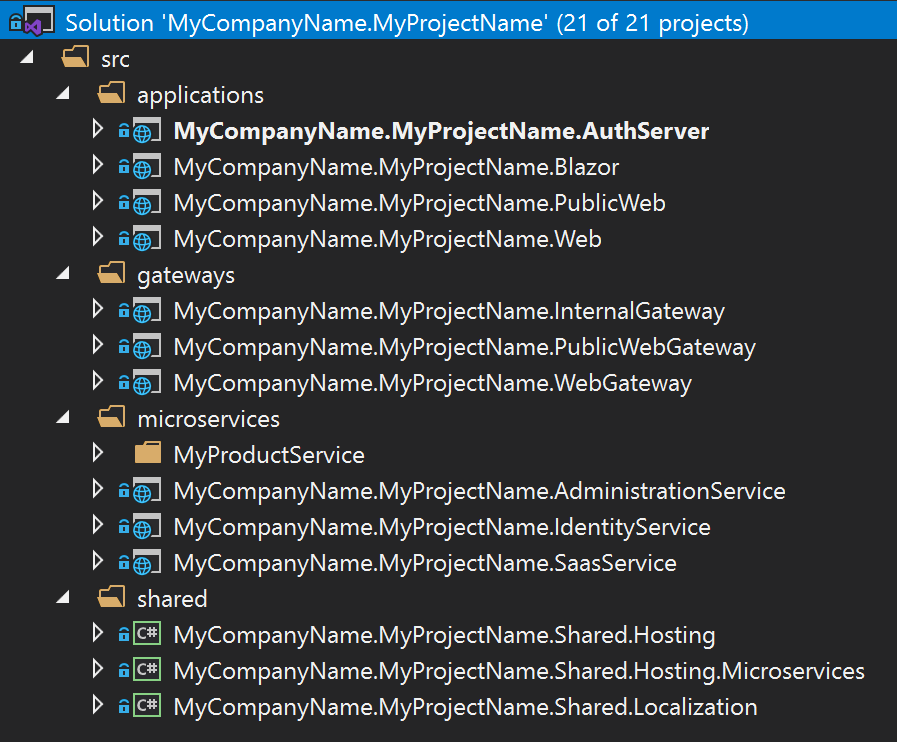
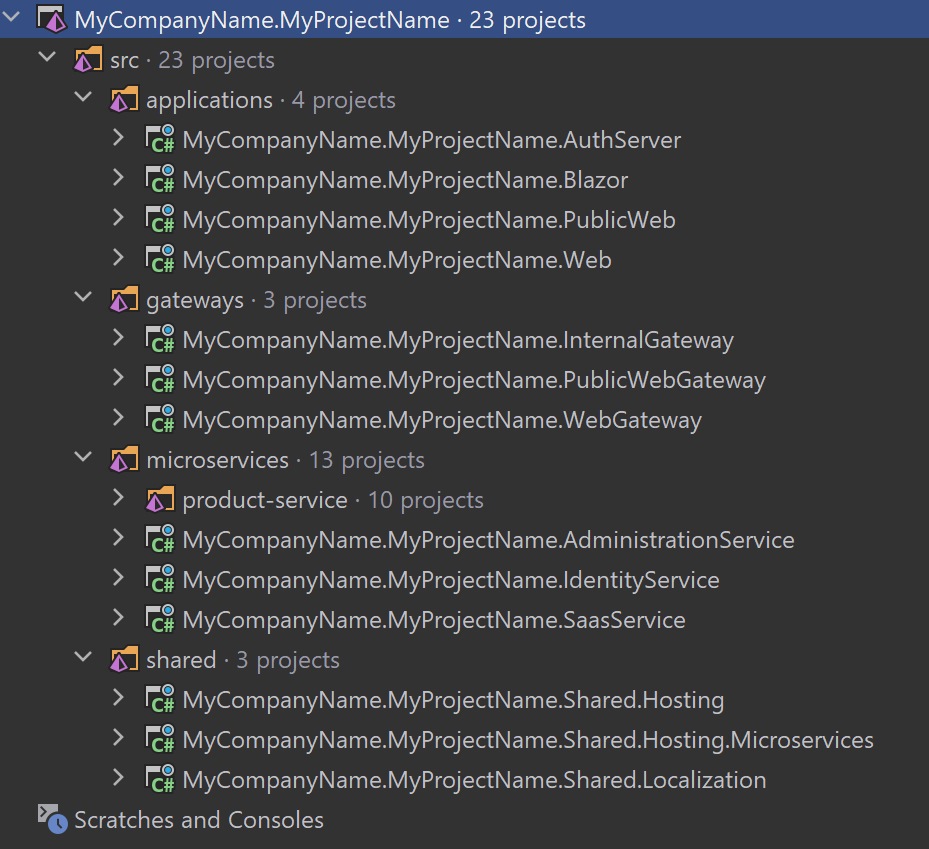
Update microservice\index

Changed region(s): [[0.0, 0.0, 1.0, 0.9919]]

diff --git a/en/startup-templates/microservice/index.md b/en/startup-templates/microservice/index.md
@@ -55,8 +55,6 @@ Other dependencies (like Redis and RabbitMQ) comes with a docker-compose configu
 
 Use the [ABP Suite](../../abp-suite/index.md) to [create a new solution](../../abp-suite/create-solution.md) by selecting the *Microservice* as the project type.
 
-TODO: Screenshot
-
 ### Run the Infrastructure
 
 The root folder of the solution contains a `run-infrastructure.ps1` file. Execute it to run the necessary infrastructure services. First run will take time since it will download the missing Docker images.
@@ -71,19 +69,48 @@ Now, you can open the solution in Visual Studio or your favorite IDE. You will s
 
 ![microservice-template-solution-in-visual-studio](../../images/microservice-template-solution-in-visual-studio.png)
 
+*Figure: The solution structure (it will be a slightly different based on your UI preference).*
+
 ## Run the Solution
 
-Run the projects with the following order (right click to each project, *Set as Startup Project* and hit Ctrl+F5);
+The system consists of multiple applications should be running together.
+
+### Running the Authentication Server
+
+First, run the AuthServer application.
+
+> Right click to the project, *Set as Startup Project* and hit Ctrl+F5 while running the applications if you don't need to DEBUG it.
+
+It will open a Login page:
+
+![microservice-template-auth-server-login](../../images/microservice-template-auth-server-login.png)
+
+If you want to test it, enter `admin` as the username and `1q2w3E*` as the password and hit ENTER. If you login successfully, you are redirected a test page that lists the user claims.
+
+### Running the Services
+
+First, run the projects with the following order (right click to each project, *Set as Startup Project* and hit Ctrl+F5) to make the services running;
 
 * AuthServer
 * InternalGateway
 * AdministrationService
 * IdentityService
 * SaasService
-* ProductService
+* product-service/HttpApi.Host
+
+### Running the Main Web Application
+
+TODO
+
 * WebGateway
 * Web
 
-This will begin the *Main Web Application*. If you want to run the *Public Website*, you need to run the PublicWebGateway project first, then the PublicWeb project.
+This will begin the *Main Web Application*. Click to the *Login* link. It will redirect to the *Authentication Server*. Enter `admin` as the username and `1q2w3E*` as the password to login to the system. You will be redirected back to the web application.
+
+ If you want to run the *Public Website*, you need to run the PublicWebGateway project first, then the PublicWeb project.
 
 > Notice: Visual Studio may stop a previously started service (we think it is kind of a bug of the VS). In this case, re-start the stopped application. Alternatively, you can run the project or projects in a command line terminal, using the `dotnet run` command.
+
+Notes
+
+* Need to give permissions on first run!
